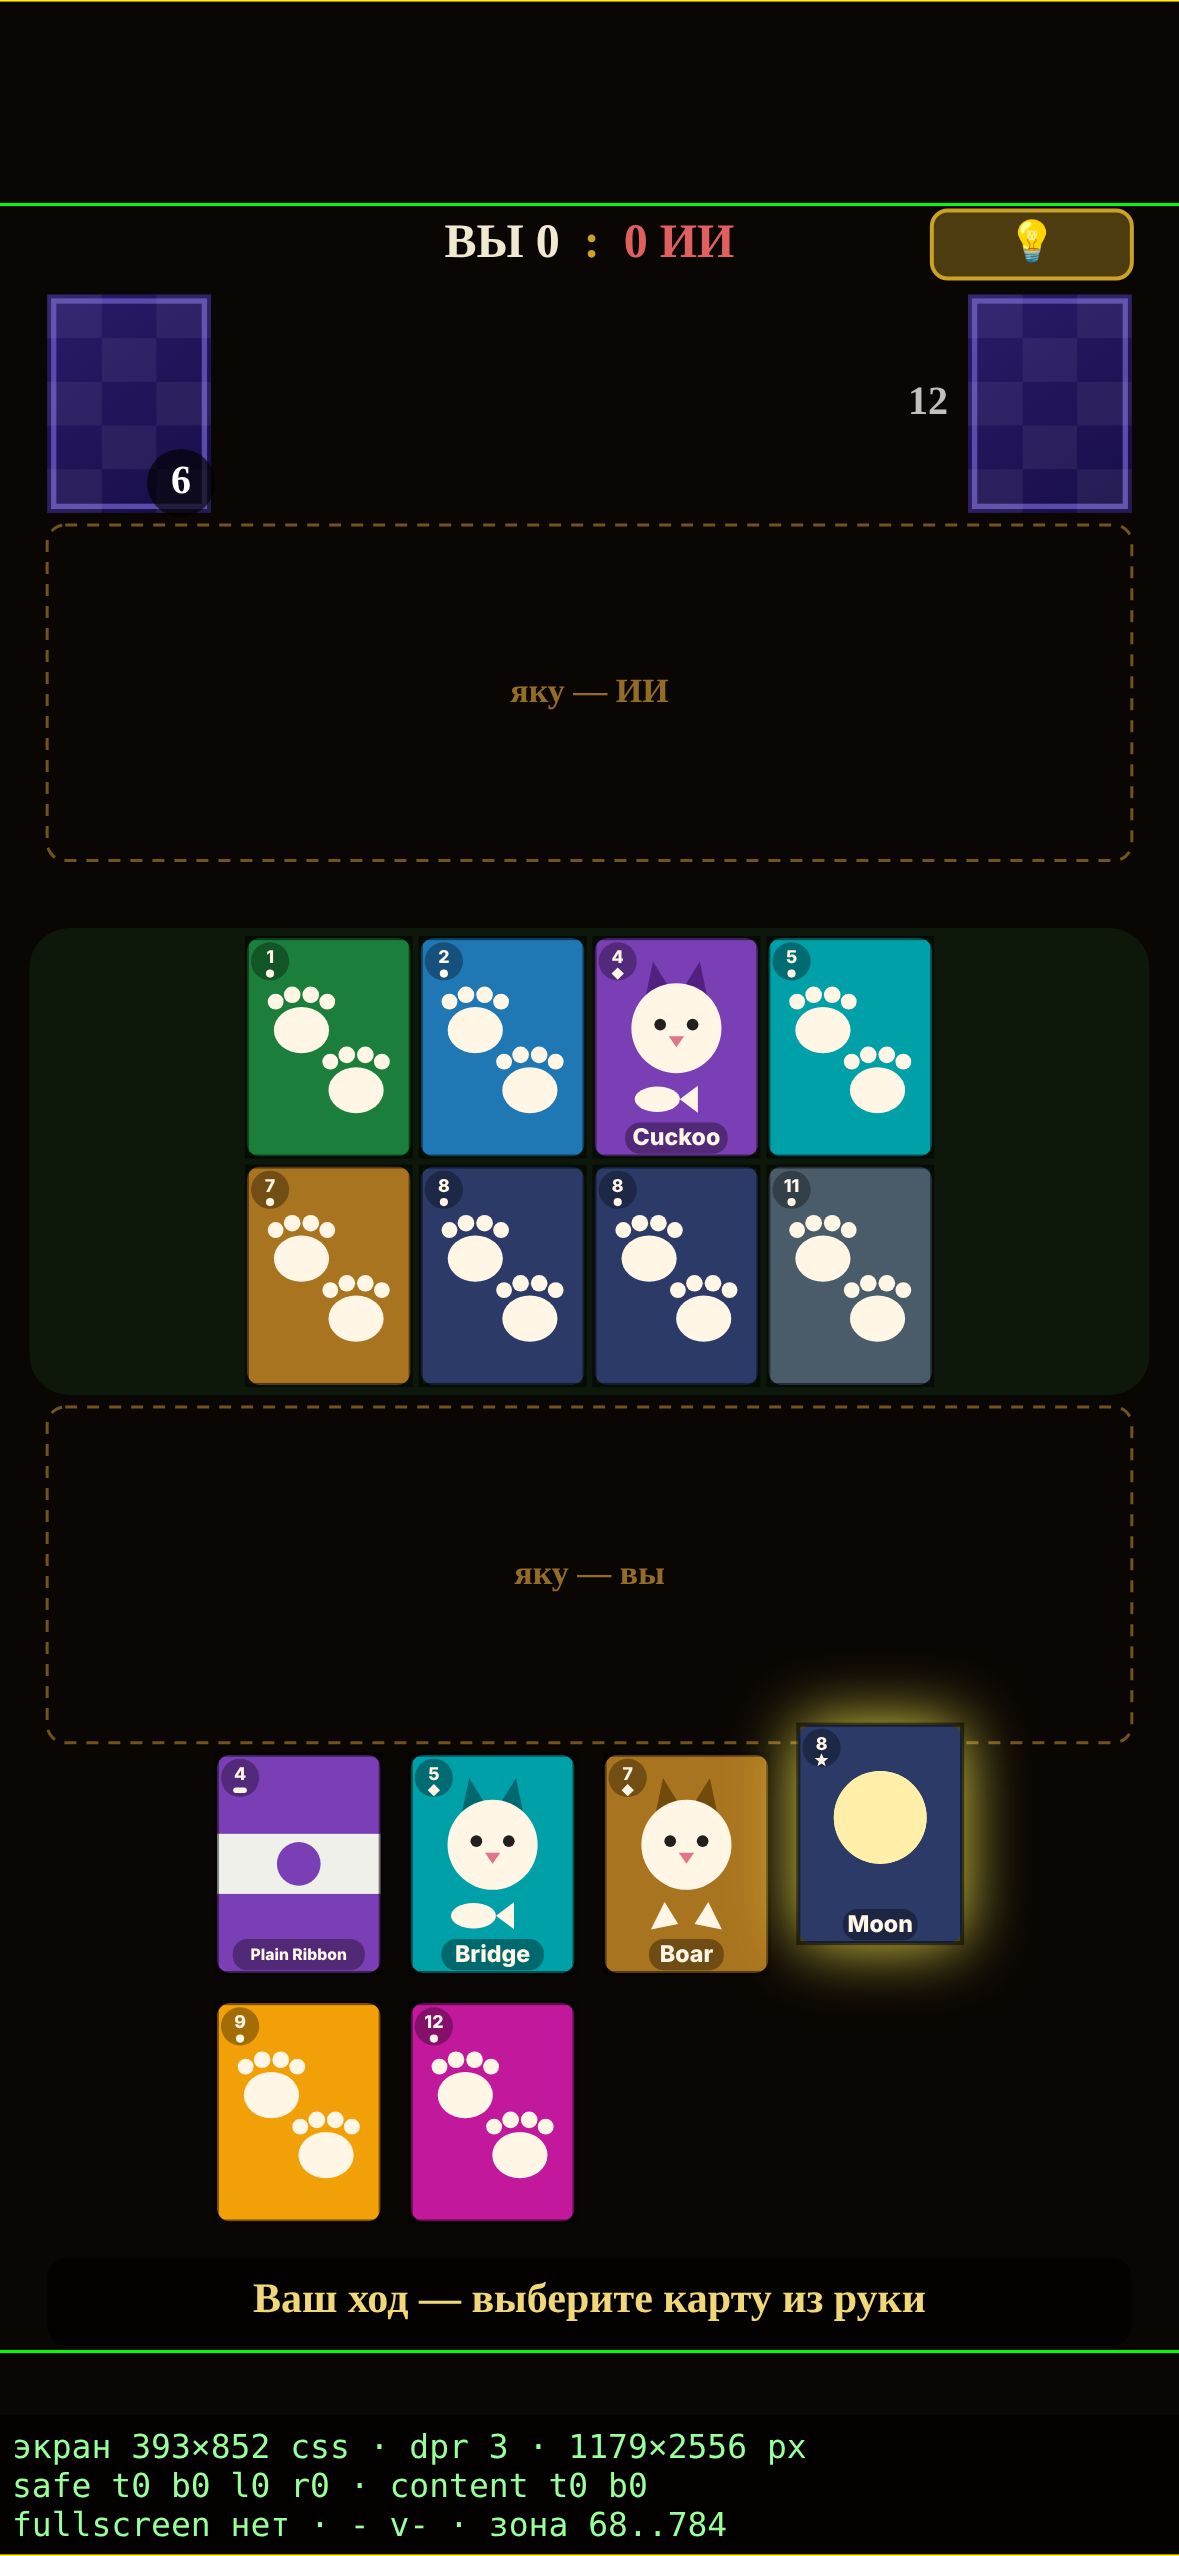
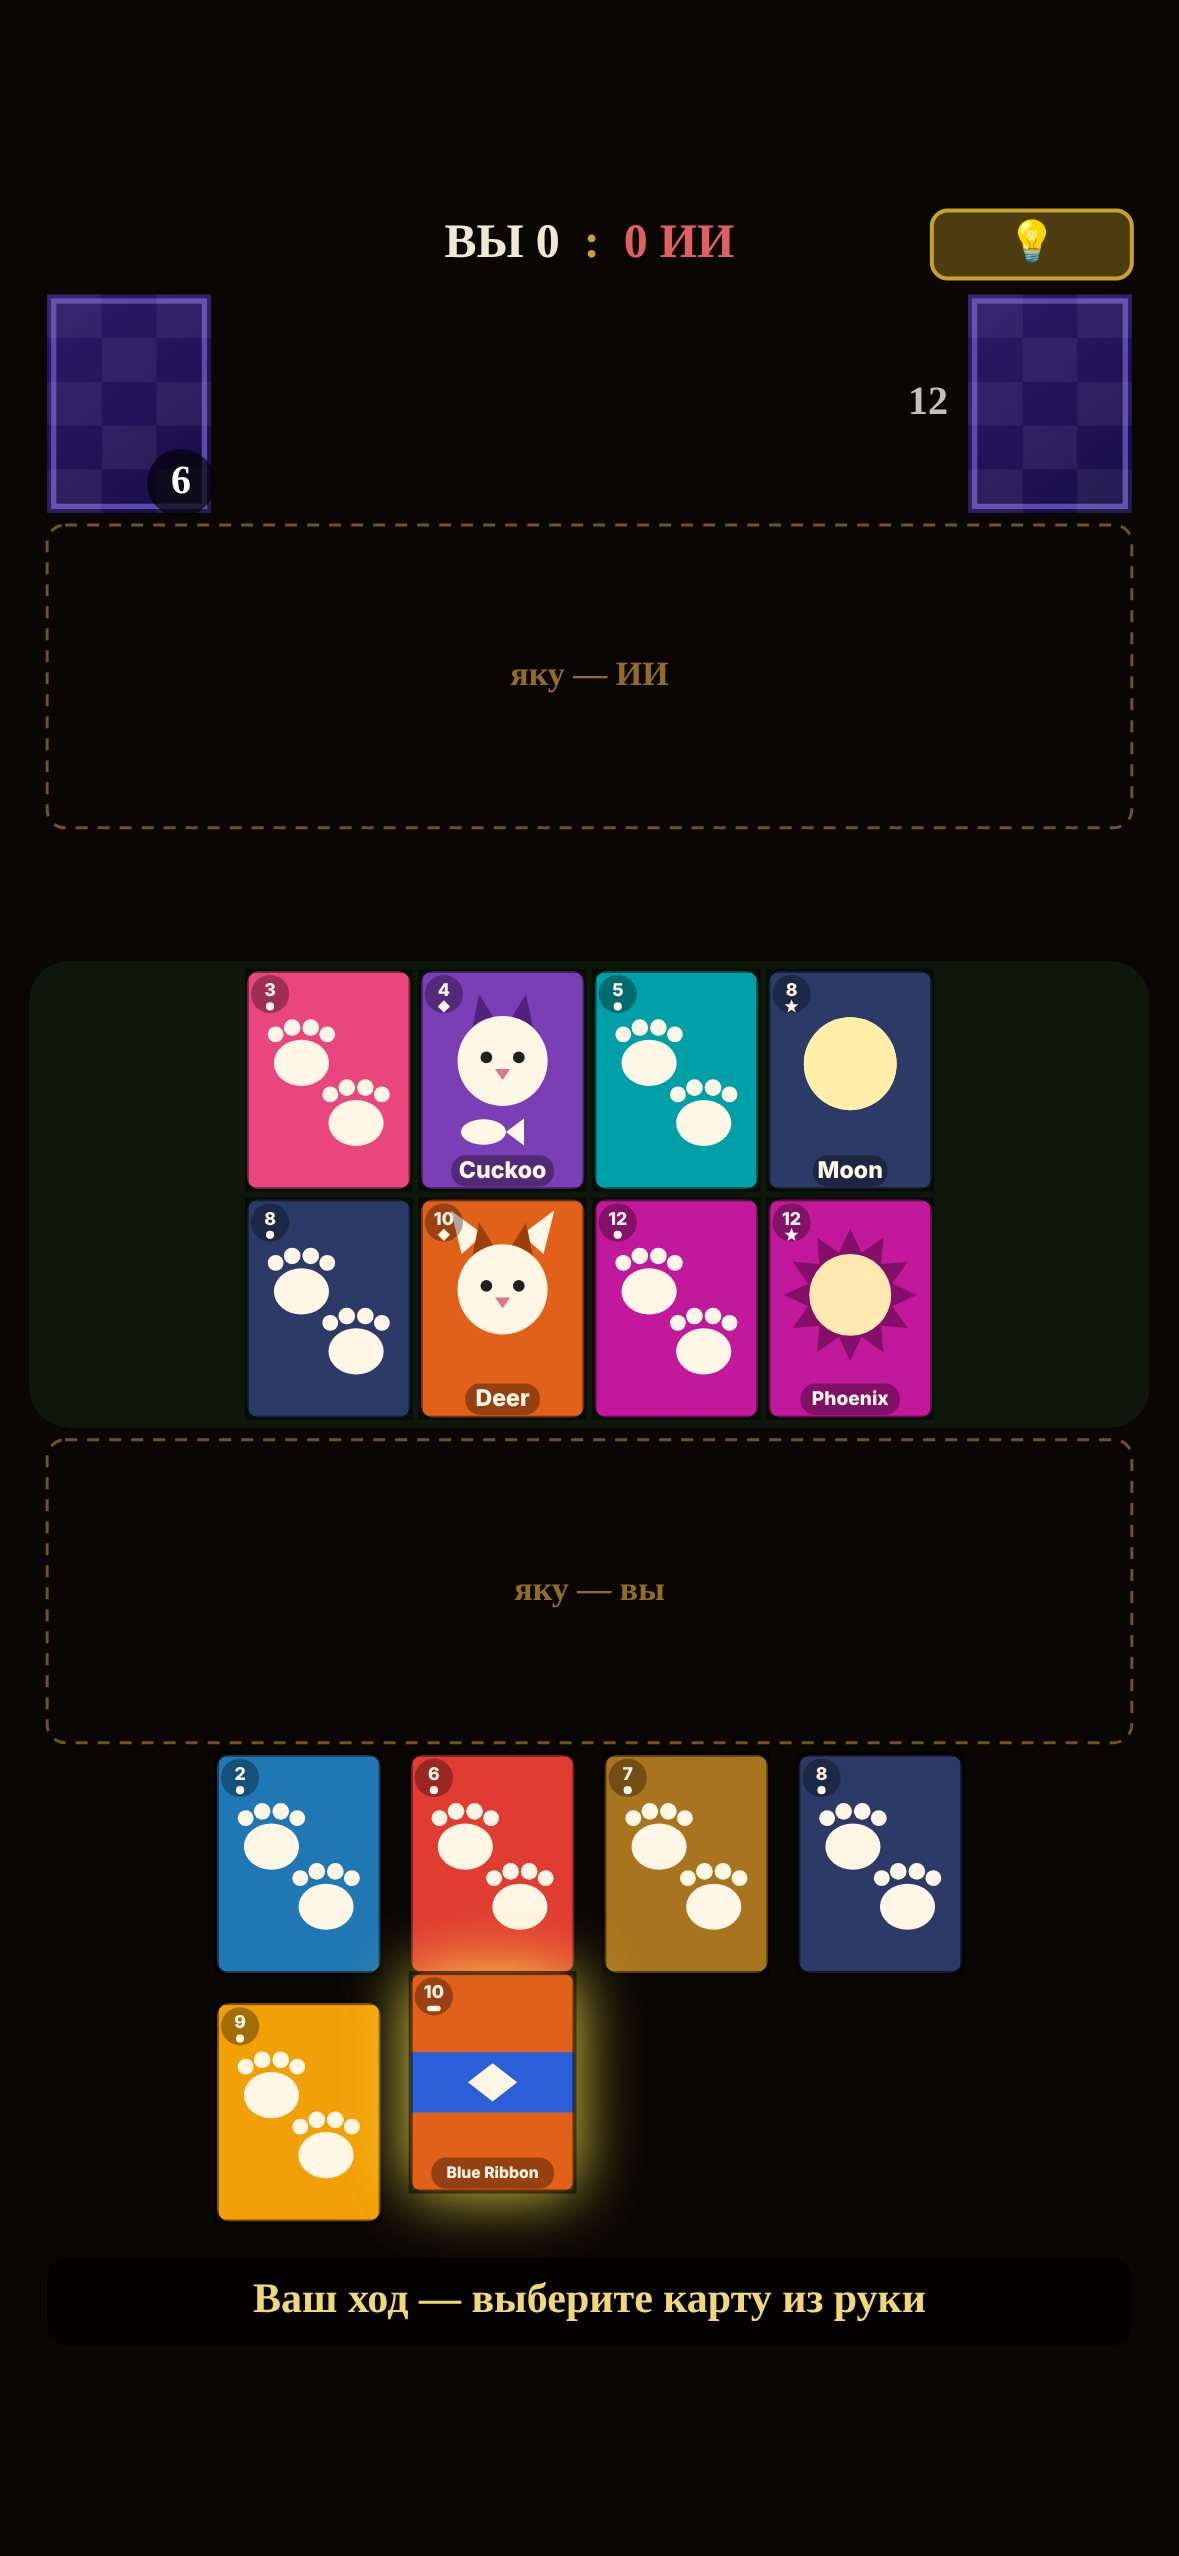
UI: карты хода и из колоды летят в центр, перекрывая верхний ряд стола на 40%; взятые карты улетают в блок яку; метка отступов выключена
На iPhone 15 (iOS, fullscreen) Telegram отдаёт safe t54 b20, content t46:
сверху берётся inset (100 CSS px), снизу — 8%.

Claude-Session: https://claude.ai/code/session_01YWBhc7XyH6Quahzkpjq16G

diff --git a/docs/ui-layout.md b/docs/ui-layout.md
@@ -10,10 +10,10 @@
   чем 2×6 через 10 px ровно по зоне (172×230).
 - **Колода того же размера, что карта ИИ (164×218)** — справа, зеркально ей (та же строка), число
   карт слева от колоды.
-- **Выезд карт:** карта хода ИИ выезжает из его карты влево-вниз, карта из колоды —
-  из колоды вправо-вниз; обе встают чуть выше стола (на 0,3 высоты карты) у краёв
-  зоны и светятся, затем забираются или ложатся на стол (`slide()`, 320 мс).
-  При 5–6 колонках стола выехавшая карта частично перекрывает крайнюю колонку.
+- **Выезд карт:** карта хода ИИ (из его карты) и карта из колоды (из колоды) летят
+  в центр экрана и встают над столом, **на 40% перекрывая верхний ряд** (`STAGE_OVER`),
+  светятся (`slide()`, 320 мс). Взятые карты — со стола, из центра или из руки —
+  улетают в блок яку того, кто взял, уменьшаясь и затухая (`noteCaptures`/`drawFlights`, 420 мс).
 - **Стол по центру экрана.** Места 2×6: сначала 2×4 (ряд 1, ряд 2), потом колонки
   5–6. Карта держит своё место (`G.tslot`), новая занимает первое свободное. Сетка
   центрируется по числу занятых колонок (минимум 4): появилась 5-я — сетка
@@ -25,12 +25,13 @@
   собранных яку и очки раунда. Оформление ячеек — по описанию пользователя позже
   (черновик 12 ячеек-иконок есть в истории git, коммит 531cd6c).
 - **Рука** 2×4 по центру экрана, промежуток 30; полоса 100 у нижнего края зоны.
-- **Высота (iPhone 15):** поле 204 · шапка 80 · 10 · карта ИИ 218 · яку ИИ 360 ·
-  выезд 66 · стол 447 · 10 · яку игрока 360 · рука 467 · 30 · полоса 100 · поле 204.
-- **Метка отладки** (`DEBUG_INSETS=true`, временно): внизу экрана размер в CSS px,
-  dpr, физические px, `safeAreaInset`, `contentSafeAreaInset`, fullscreen,
-  платформа и версия Telegram; линии: красная — safe area устройства, жёлтая —
-  плюс кнопки Telegram, зелёная — граница нашей зоны.
+- **Высота (iPhone 15):** поле 204 · шапка 80 · 10 · карта ИИ 218 · яку ИИ 327 ·
+  выезд 131 · стол 447 · 10 · яку игрока 327 · рука 467 · 30 · полоса 100 · поле 204.
+- **Поля по факту (iPhone 15, iOS, fullscreen):** Telegram отдаёт safe t54 b20 и
+  content t46 b0 CSS px → сверху 100 CSS px (≈12%, больше наших 8% — берётся inset,
+  шапка встаёт сразу под кнопками «Close / ⋯»), снизу 20 < 8% (68) — берутся 8%.
+  Метка `DEBUG_INSETS` (размер экрана, safe/content insets, fullscreen, платформа,
+  линии границ) выключена; включить — `DEBUG_INSETS=true`.
 - Замер `measure.js`: iPhone 15 — карта и колода 163,8×218,4, ряд 4 = 685,
   ряд 6 = 1033, яку по 360; Android 412×915 — яку 404; 16:9 375×667 — k уменьшен,
   карта 147×196, по бокам 6,7%.

diff --git a/CLAUDE.md b/CLAUDE.md
@@ -44,8 +44,7 @@
 
 ## Дальше (из §0)
 1. UI: раскладка игрового поля v5.1 (`docs/ui-layout.md`) влита в `main` 2026-10-10 по слову пользователя,
-   ждём его проверки на телефоне. Включена временная метка `DEBUG_INSETS` (отступы Telegram) — по её
-   скриншоту выставить верхнее/нижнее поле, потом выключить. Яку — пока текст в рамках, оформление ждёт
-   описания; меню/журнал/итог раунда — тоже.
+   пользователь проверил на телефоне (iOS fullscreen: safe t54 b20, content t46 — поля в норме, метка
+   `DEBUG_INSETS` выключена). Яку — пока текст в рамках, оформление ждёт описания; меню/журнал/итог раунда — тоже.
 2. Проверка бэкенда — сделана 2026-10-09 (`GAME-STATE.md` §7).
 3. Доработки PIMC — только по запросу.
